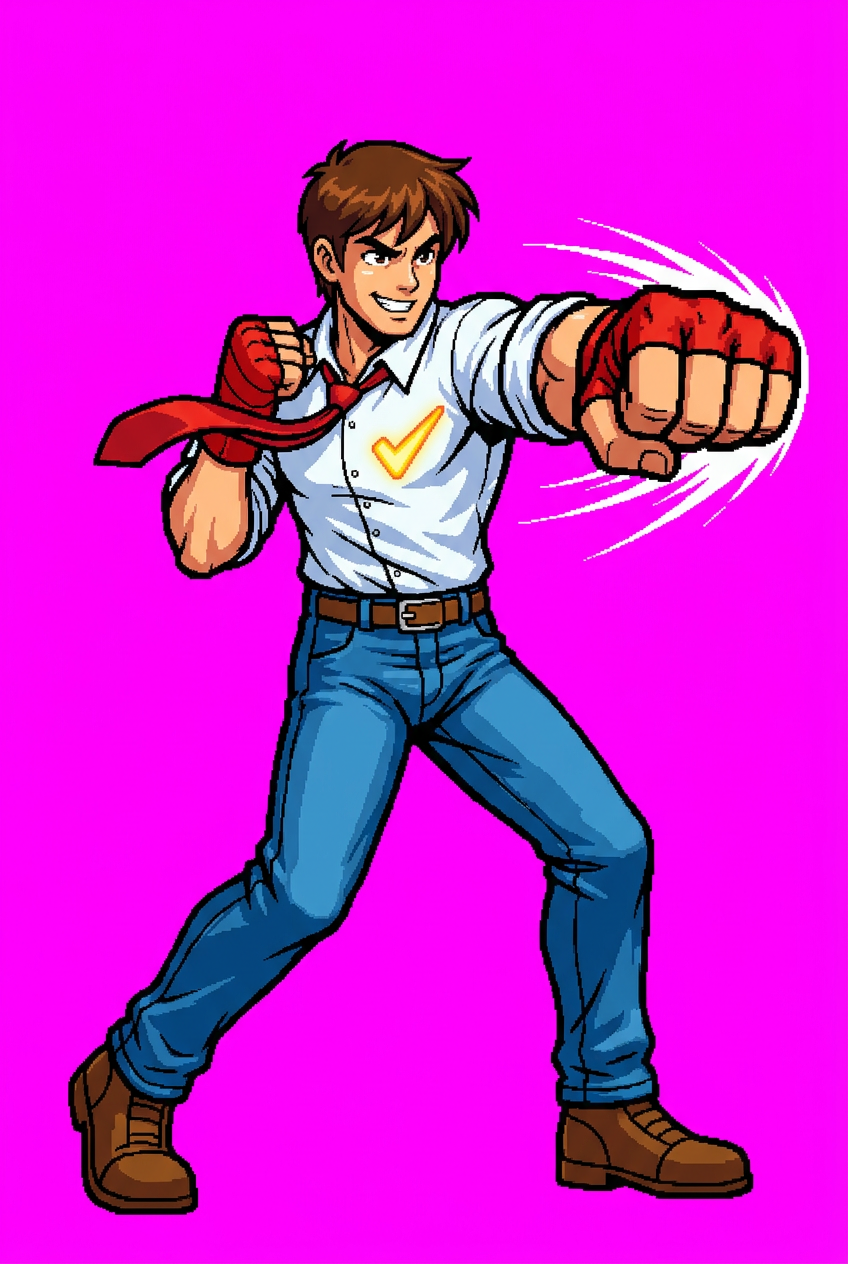
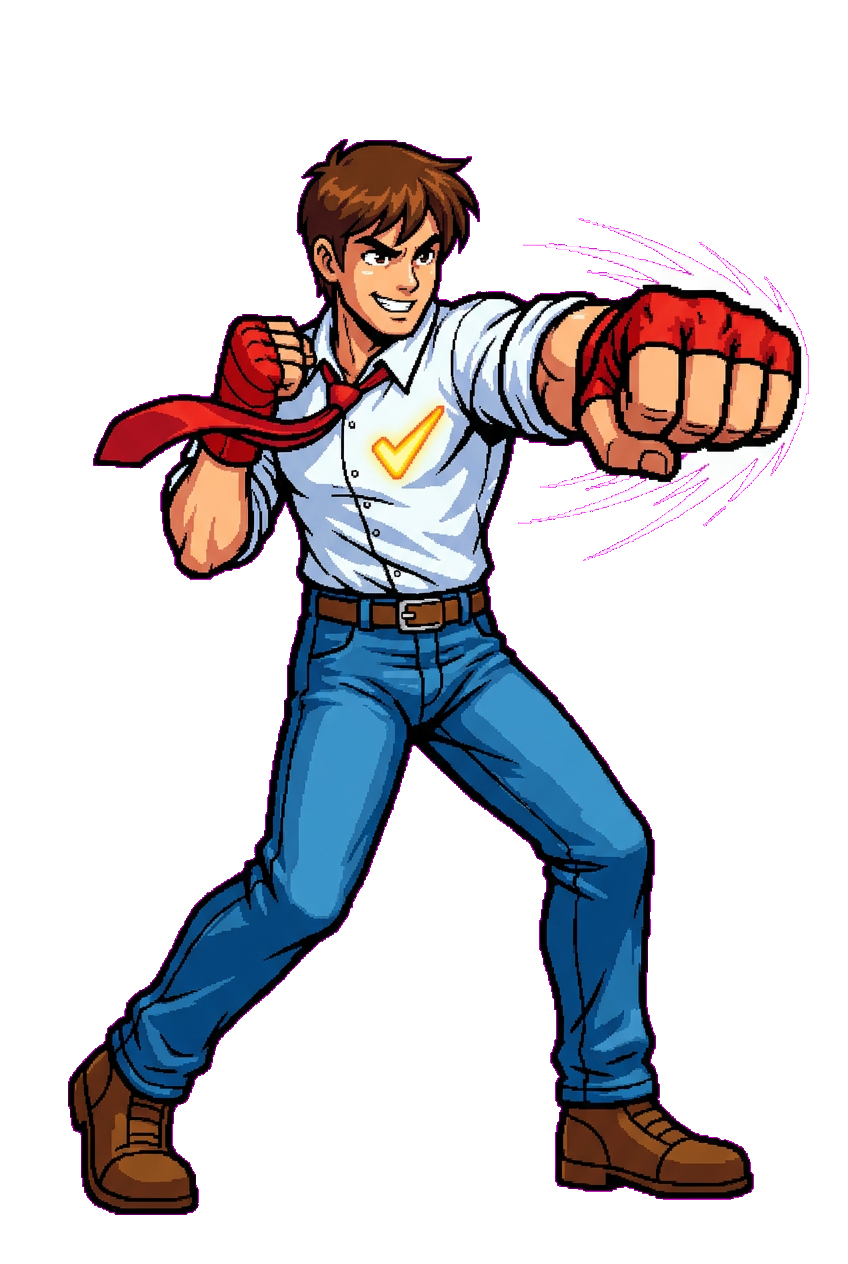
Brand Fighter: fix hero art keying out reds (pre-cut transparent sprites), add hidden pistol on G
Claude-Session: https://claude.ai/code/session_01RScCM59oUhw4CHRtHybsau

diff --git a/brand-fighter/index.html b/brand-fighter/index.html
@@ -258,9 +258,10 @@
   // Sprites are generated on a flat chroma-key color; we key it out to alpha on load.
   var ASSET_SOURCES = {
     bg: { src: 'assets/bg-synthwave.png' },
-    hero: { src: 'assets/hero.png', key: [197,31,102] },
-    heroPunch: { src: 'assets/hero-punch.png', key: [255,0,255] },
-    heroKick: { src: 'assets/hero-kick.png', key: [255,0,255] },
+    // Hero art is pre-cut to transparent PNGs. Runtime keying removed the hero's red gloves, tie and skin shading.
+    hero: { src: 'assets/hero.png' },
+    heroPunch: { src: 'assets/hero-punch.png' },
+    heroKick: { src: 'assets/hero-kick.png' },
     VIDEO: { src: 'assets/enemy-video.png', key: [255,0,255] },
     SLOGAN: { src: 'assets/enemy-slogan.png', key: [255,0,255] },
     TREND: { src: 'assets/enemy-trend.png', key: [255,0,255] },
@@ -338,6 +339,8 @@
   }
   var sfx = {
     punch: function(){ beep(180,0.08,'square',0.09); },
+    gun: function(){ beep(220,0.05,'sawtooth',0.12); beep(70,0.1,'square',0.1); },
+    holster: function(){ beep(500,0.04,'square',0.06); setTimeout(function(){ beep(380,0.05,'square',0.06); }, 60); },
     kick: function(){ beep(120,0.12,'square',0.11); },
     hitPlayer: function(){ beep(90,0.18,'sawtooth',0.12); },
     hitEnemy: function(){ beep(300,0.07,'square',0.07); },
@@ -369,8 +372,10 @@
   // ---------- Input ----------
   var keys = {};
   var prevKeys = {};
+  var gunToggleQueued = false;   // hidden key G; queued from the event so a very quick tap is never missed
   window.addEventListener('keydown', function(e){
     unlockAudio();
+    if(e.code === 'KeyG' && !e.repeat){ gunToggleQueued = true; }
     keys[e.code] = true;
     if(['ArrowLeft','ArrowRight','ArrowUp','ArrowDown','Space'].indexOf(e.code) !== -1){ e.preventDefault(); }
   });
@@ -429,7 +434,8 @@
       state:'idle', stateTimer:0, animT:0,
       attackCooldown:0, invuln:0, hitApplied:false,
       blocking:false, dead:false,
-      vy:0, jumpY:0, jumping:false, cycloneUsed:false
+      vy:0, jumpY:0, jumping:false, cycloneUsed:false,
+      gunOut:false, gunFireT:0
     };
   }
   var player = makePlayer();
@@ -453,6 +459,7 @@
 
   var enemies = [];
   var projectiles = [];
+  var bullets = [];          // hidden easter egg: the hero's pistol (press G)
   var GIRL_SPRITE_H = 145;   // the selfie girl's art is cropped tight and wider than tall, so she draws shorter
   var nextTrendIsGirl = false;
   function spawnEnemy(typeKey){
@@ -513,7 +520,7 @@
     if(!assetsReady) return;
     unlockAudio();
     player = makePlayer();
-    enemies = []; projectiles = []; particles = [];
+    enemies = []; projectiles = []; bullets = []; particles = [];
     waveIndex = 0;
     startWave(waveIndex);
   }
@@ -539,6 +546,7 @@
   }
 
   function beginPlaying(){
+    gunToggleQueued = false;   // ignore any G pressed on a menu / intro screen
     state = STATE.PLAYING;
     showScreen(null);
     hud.classList.remove('hidden');
@@ -633,7 +641,7 @@
   // ---------- Combat ----------
   function tryPlayerAttack(){
     if(player.attackCooldown > 0 || player.state==='hit' || player.dead) return;
-    if(justPressed('KeyZ') || justPressed('KeyJ')){
+    if((justPressed('KeyZ') || justPressed('KeyJ')) && !player.gunOut){
       player.state = 'punch'; player.stateTimer = 220; player.attackCooldown = 300;
       player.hitApplied = false;
       sfx.punch();
@@ -673,6 +681,78 @@
     });
     spawnHit(player.x, player.y - player.h*0.5, '#2be8ff', 16);
     shake(14, 0.25);
+  }
+
+  // ---- Hidden pistol (press G to draw / holster; PUNCH key fires while it's out) ----
+  // Fist positions in the 848x1264 hero art, converted to game pixels at draw time.
+  var GUN_HAND_IDLE = { px:690, py:345 };   // guard fist in hero.png
+  var GUN_HAND_FIRE = { px:740, py:375 };   // extended fist in hero-punch.png
+  var HERO_ART_W = 848, HERO_ART_H = 1264;
+  function gunHandPos(fire){
+    var s = PLAYER_SPRITE_H / HERO_ART_H;
+    var hnd = fire ? GUN_HAND_FIRE : GUN_HAND_IDLE;
+    return { dx:(hnd.px - HERO_ART_W/2) * s, dy:(HERO_ART_H - hnd.py) * s };
+  }
+  function toggleGun(){
+    player.gunOut = !player.gunOut;
+    player.gunFireT = 0;
+    showToast(player.gunOut ? 'LOCKED & LOADED!' : 'GUN HOLSTERED', 900);
+    if(player.gunOut){ sfx.gun(); } else { sfx.holster(); }
+  }
+  function fireGun(){
+    player.attackCooldown = 200;
+    player.gunFireT = 140;
+    var hp = gunHandPos(true);
+    var mx = player.x + player.facing*(hp.dx + 36);
+    var my = player.y + player.jumpY - hp.dy;
+    bullets.push({ x:mx, y:my, vx:player.facing*950, dmg:14, dead:false });
+    spawnHit(mx, my, '#ffd43a', 4);
+    sfx.gun();
+    shake(2, 0.05);
+  }
+  function updateBullets(dt){
+    bullets.forEach(function(b){
+      var x0 = b.x;
+      b.x += b.vx*dt;
+      var lo = Math.min(x0, b.x) - 8, hi = Math.max(x0, b.x) + 8;
+      var best = null;
+      enemies.forEach(function(e){
+        if(e.dead) return;
+        var hw = e.type.w/2;
+        if(e.x + hw >= lo && e.x - hw <= hi && b.y > e.y - e.spriteH && b.y < e.y + 10){
+          if(!best || Math.abs(e.x - x0) < Math.abs(best.x - x0)) best = e;
+        }
+      });
+      if(best){
+        damageEnemy(best, b.dmg, 90);
+        spawnHit(b.x, b.y, '#ffd43a', 6);
+        b.dead = true;
+      }
+    });
+    bullets = bullets.filter(function(b){ return !b.dead && b.x > camera.x-80 && b.x < camera.x+W+80; });
+  }
+  function drawGun(x, y, facing, fire){
+    ctx.save();
+    ctx.translate(x, y);
+    ctx.scale(facing, 1);
+    ctx.lineWidth = 2; ctx.strokeStyle = '#000';
+    // grip
+    ctx.fillStyle = '#6a4326'; ctx.fillRect(-5, 1, 11, 15); ctx.strokeRect(-5, 1, 11, 15);
+    // slide + barrel
+    ctx.fillStyle = '#aeb8c4'; ctx.fillRect(-7, -9, 42, 11); ctx.strokeRect(-7, -9, 42, 11);
+    ctx.fillStyle = '#eef3f8'; ctx.fillRect(-4, -7, 34, 2);
+    ctx.fillStyle = '#2a2f38'; ctx.fillRect(31, -7, 4, 7);
+    // trigger
+    ctx.fillStyle = '#000'; ctx.fillRect(7, 2, 2, 5);
+    if(fire){
+      // muzzle flash
+      ctx.fillStyle = '#fff6a0';
+      ctx.beginPath();
+      ctx.moveTo(35,-4); ctx.lineTo(48,-14); ctx.lineTo(44,-4); ctx.lineTo(58,-3); ctx.lineTo(44,1); ctx.lineTo(50,10); ctx.lineTo(35,-1);
+      ctx.closePath(); ctx.fill();
+      ctx.fillStyle = '#ffd43a'; ctx.fillRect(36,-5,12,4);
+    }
+    ctx.restore();
   }
 
   function damageEnemy(e, dmg, kbForce){
@@ -755,8 +835,16 @@
     // ---- PLAYING ----
     if(player.invuln > 0) player.invuln -= dt*1000;
     if(player.attackCooldown > 0) player.attackCooldown -= dt*1000;
+    if(player.gunFireT > 0) player.gunFireT -= dt*1000;
 
     player.blocking = keys['KeyC'] && !player.jumping && player.state !== 'punch' && player.state !== 'kick' && player.state !== 'hit' && player.state !== 'cyclone';
+
+    // hidden key: G draws / holsters a pistol; while it's out the PUNCH key (Z / J) fires it
+    if(gunToggleQueued){ gunToggleQueued = false; if(!player.dead) toggleGun(); }
+    if(player.gunOut && (keys['KeyZ'] || keys['KeyJ']) && player.attackCooldown <= 0 && !player.dead &&
+       !player.blocking && player.state !== 'hit' && player.state !== 'kick' && player.state !== 'cyclone'){
+      fireGun();
+    }
 
     // jump trigger (ground only, not mid-attack)
     if((justPressed('ArrowUp')||justPressed('KeyW')) && !player.jumping && !player.dead &&
@@ -903,6 +991,8 @@
     });
     enemies = enemies.filter(function(e){ return !(e.dead && e.deathT > 0.6); });
 
+    updateBullets(dt);
+
     // projectiles
     projectiles.forEach(function(p){ p.x += p.vx*dt; });
     projectiles = projectiles.filter(function(p){
@@ -919,7 +1009,7 @@
     if(curWave.scroll){
       // reaching the right edge ends the level, no matter who is still on screen
       if(player.x >= levelLength-60){
-        enemies = []; projectiles = [];
+        enemies = []; projectiles = []; bullets = [];
         showToast('ROUND CLEAR!', 1200);
         nextWave();
       }
@@ -1183,7 +1273,19 @@
       } else {
         var heroImg = player.state === 'punch' && ASSETS.heroPunch ? ASSETS.heroPunch :
                       player.state === 'kick' && ASSETS.heroKick ? ASSETS.heroKick : ASSETS.hero;
+        var gunFiring = player.gunOut && player.gunFireT > 0;
+        // gun out: guard pose normally, arm extended while firing
+        if(player.gunOut && player.state !== 'kick' && player.state !== 'punch'){
+          heroImg = (gunFiring && ASSETS.heroPunch) ? ASSETS.heroPunch : ASSETS.hero;
+        }
         drawSprite(heroImg, player.x, py-bob, PLAYER_SPRITE_H, player.facing, 1, playerAlpha, 0);
+        if(player.gunOut && player.state !== 'kick' && player.state !== 'punch'){
+          var gh = gunHandPos(gunFiring);
+          var recoil = gunFiring ? -3 * (player.gunFireT/140) : 0;
+          ctx.globalAlpha = playerAlpha;
+          drawGun(player.x + player.facing*(gh.dx + recoil), py - bob - gh.dy, player.facing, gunFiring);
+          ctx.globalAlpha = 1;
+        }
       }
 
       enemies.slice().sort(function(a,b){return a.x-b.x;}).forEach(function(e){
@@ -1203,6 +1305,14 @@
           var bAlpha = Math.min(1, e.bubbleT/300);
           drawSpeechBubble(e.x, ey - e.spriteH - 4, e.bubbleText, bAlpha);
         }
+      });
+
+      // hero bullets
+      bullets.forEach(function(b){
+        var dir = b.vx > 0 ? 1 : -1;
+        ctx.fillStyle = 'rgba(255,212,58,.55)'; ctx.fillRect(dir > 0 ? b.x-34 : b.x, b.y-2, 34, 4);
+        ctx.fillStyle = '#fff6a0'; ctx.fillRect(dir > 0 ? b.x-18 : b.x, b.y-1.5, 18, 3);
+        ctx.fillStyle = '#fff'; ctx.fillRect(dir > 0 ? b.x-5 : b.x-1, b.y-2, 6, 4);
       });
 
       // projectiles
